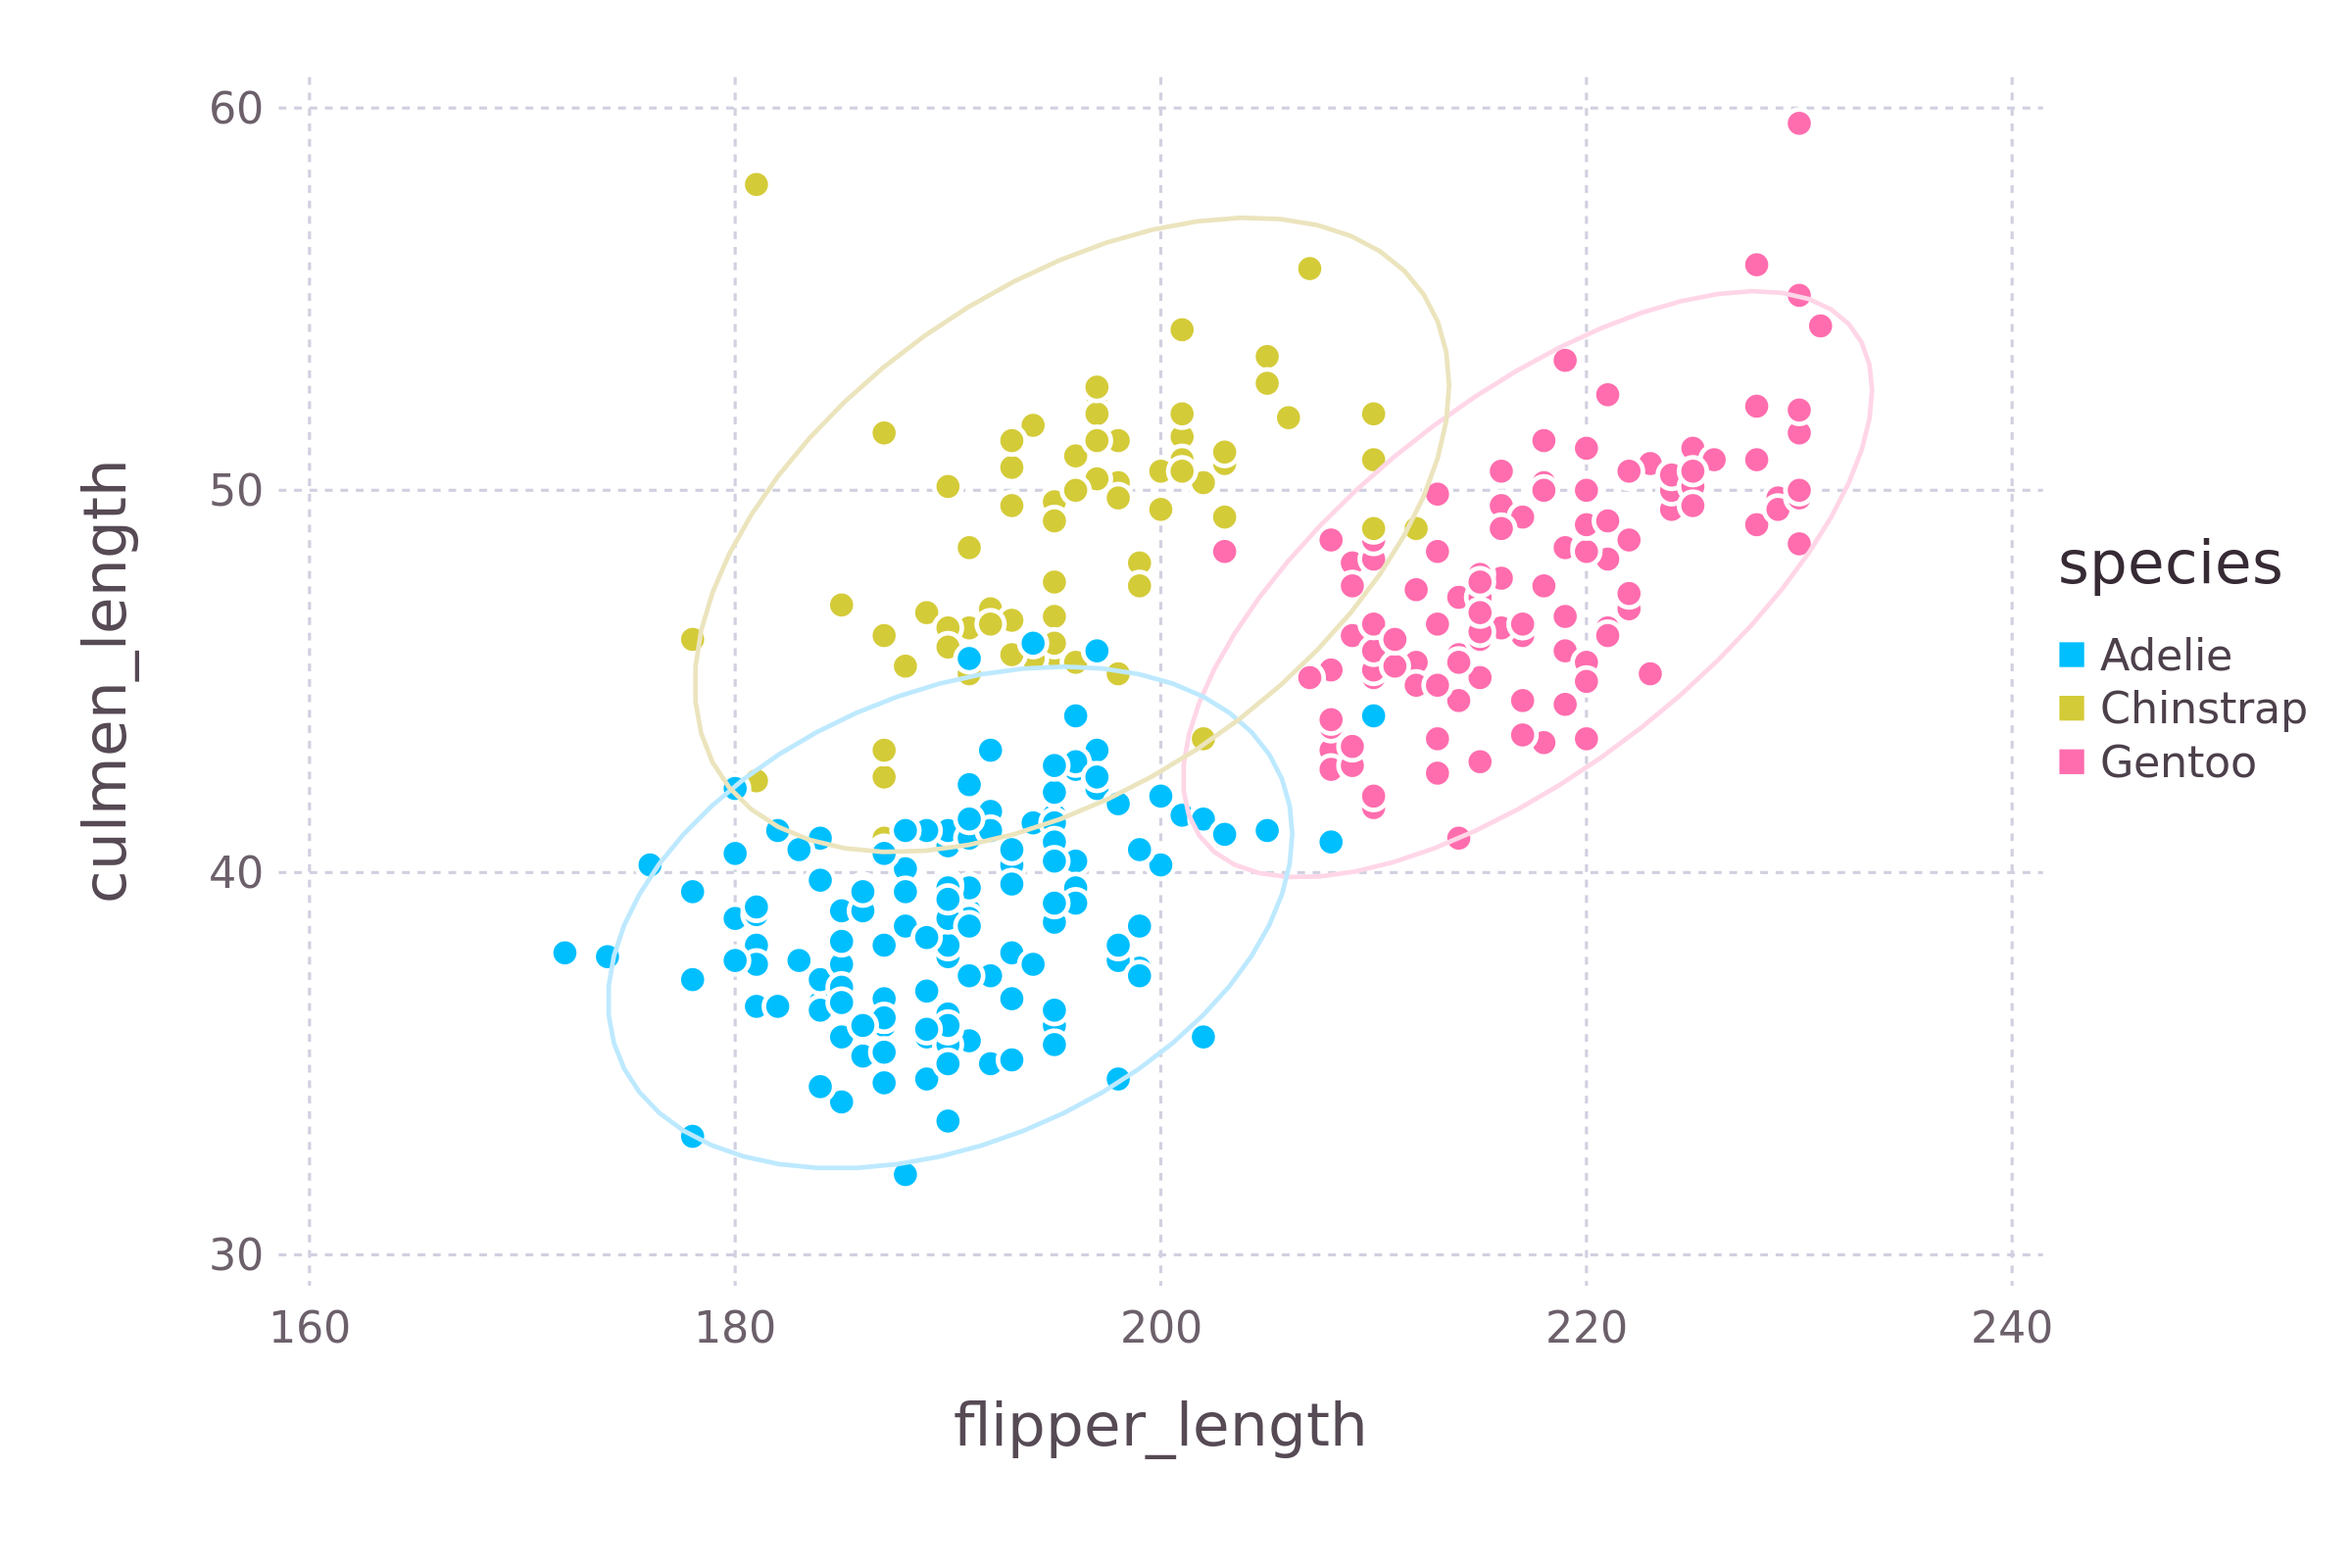
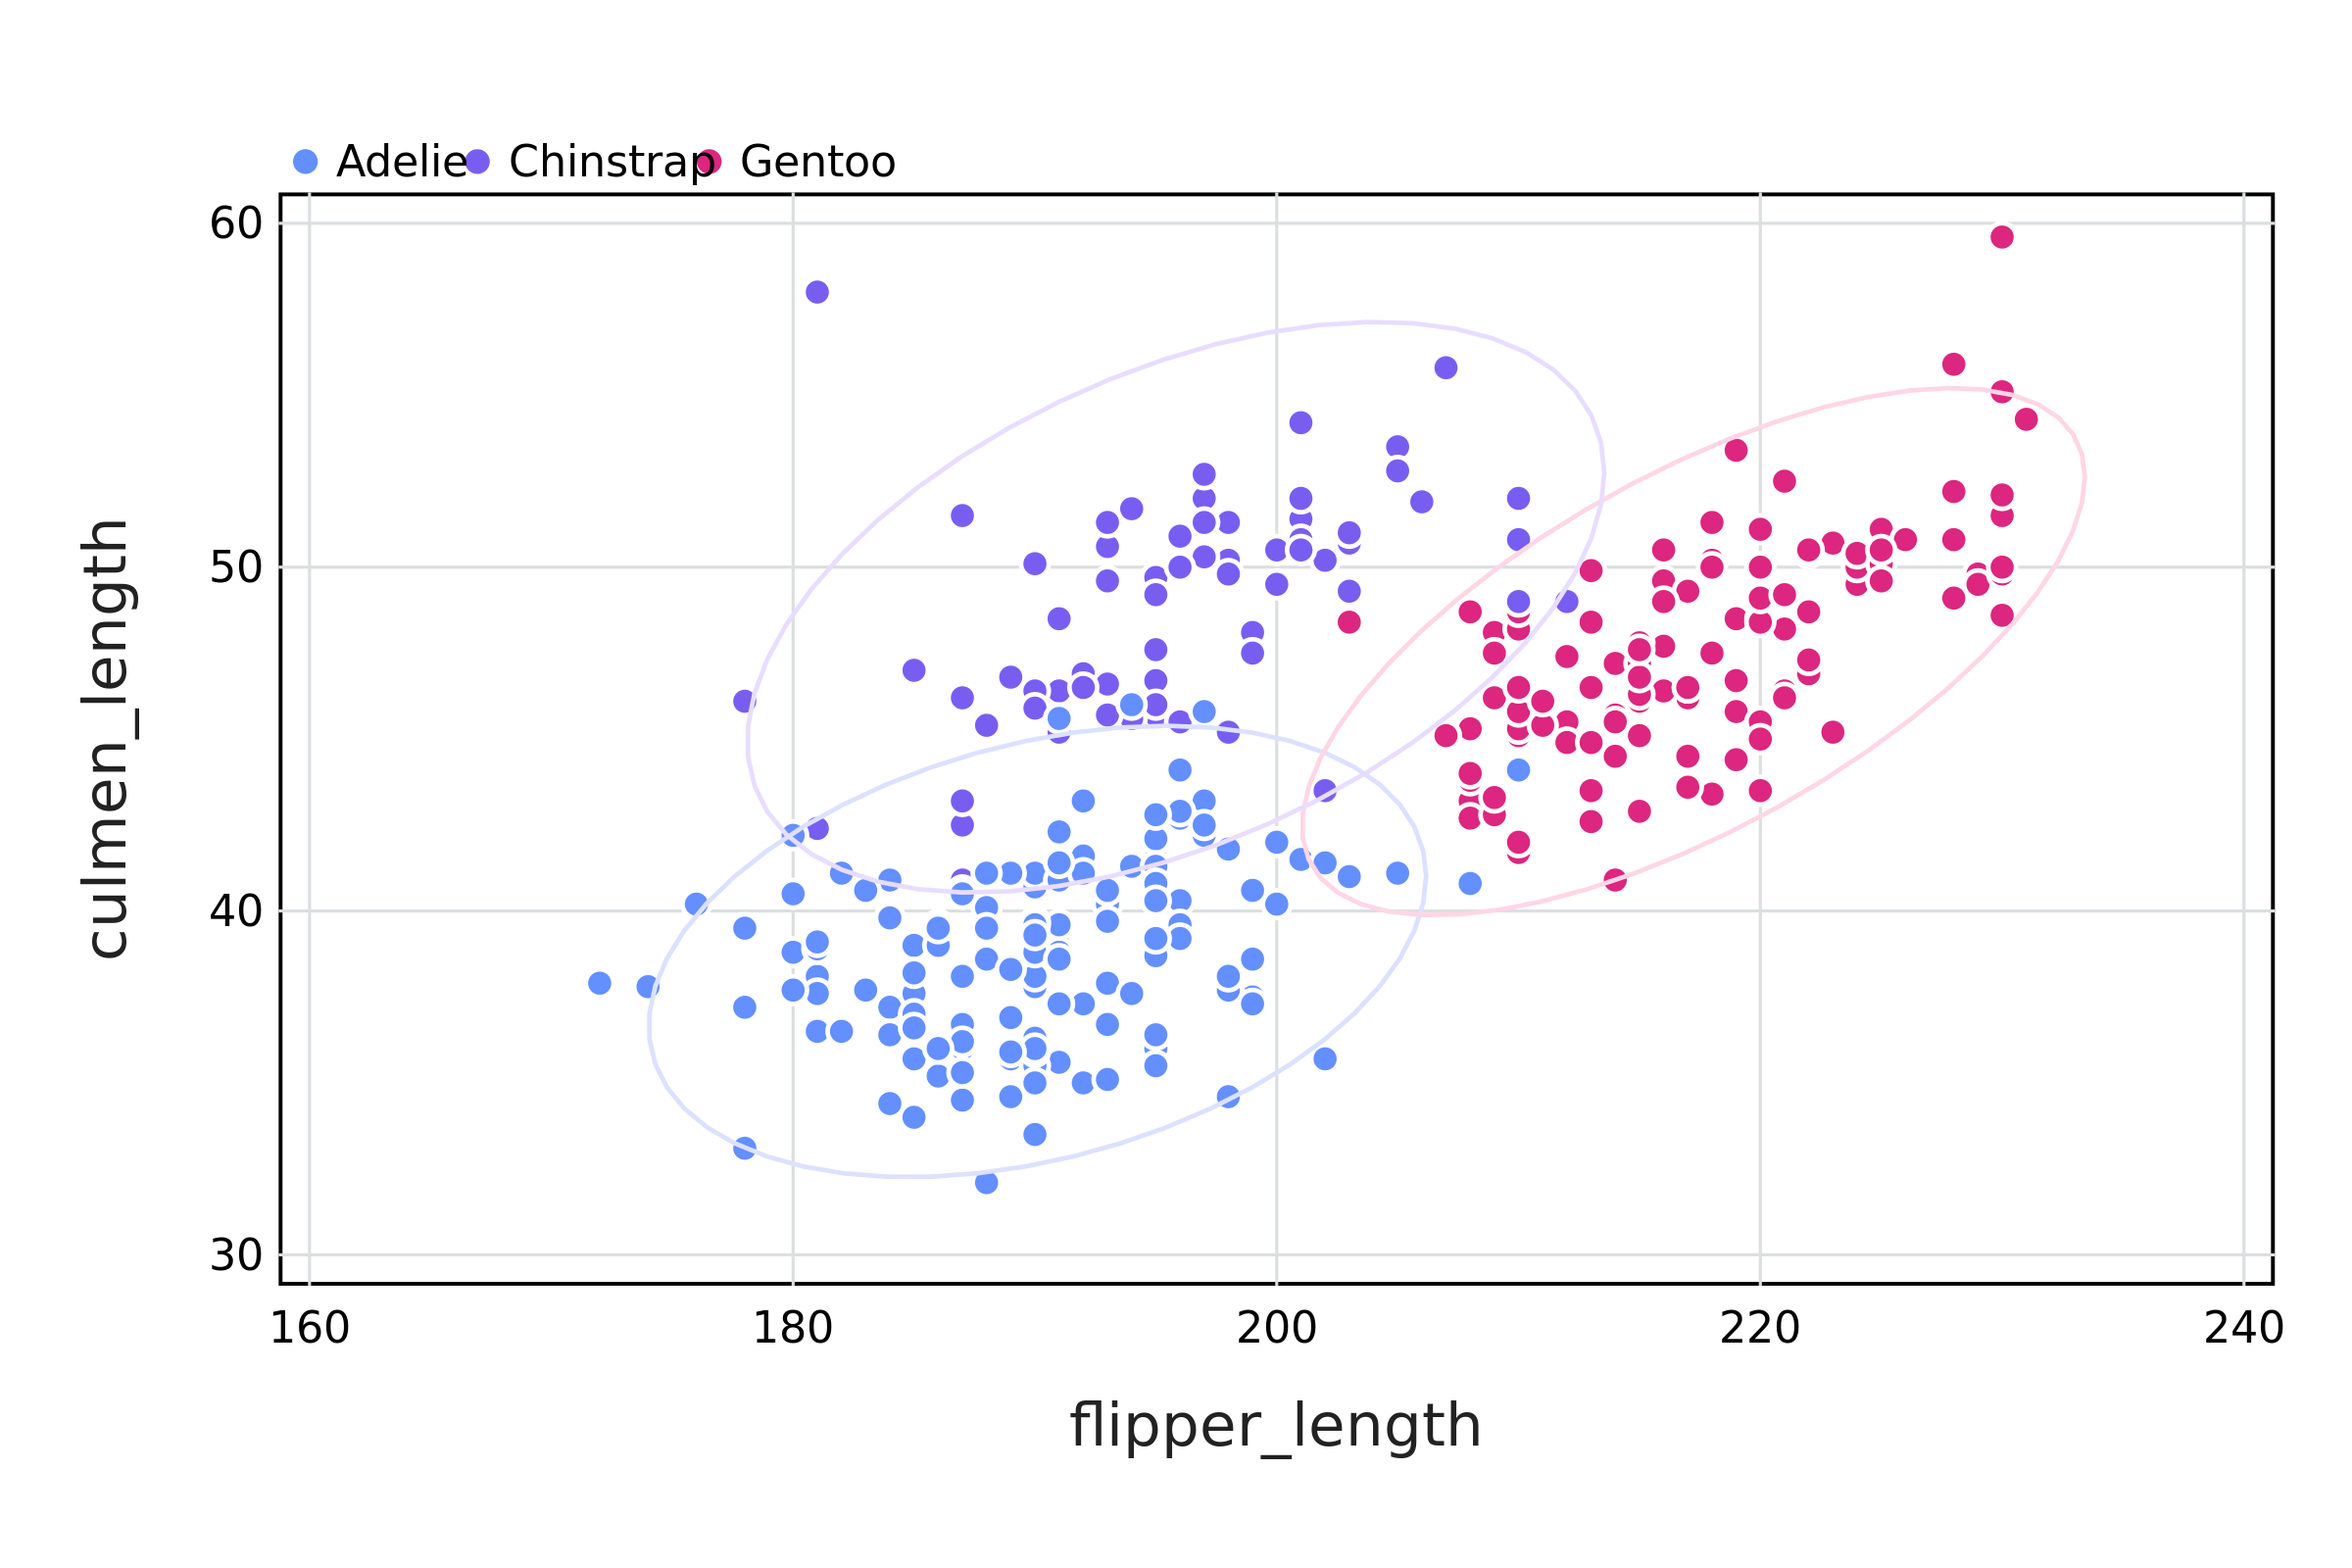
update figures

diff --git a/docs/00_data.md b/docs/00_data.md
@@ -61,6 +61,7 @@ import Latexify
 
 
 
+
 ---
 
 # Preparing the environment
@@ -425,7 +426,7 @@ So far, we have
 
 ---
 
-class: split-30
+class: split-50
 
 # Looking at relationships
 
@@ -438,7 +439,8 @@ plot(
     color=:species,
     Geom.ellipse,
     Geom.point
-);
+) |>
+PNG("figures/data_ellipses.png", dpi=600)
 ```
 
 
@@ -446,12 +448,12 @@ plot(
 ]
 
 .column[
-![Culmen plot](/figures/00_data_culmen_1.png)
+![Culmen plot](figures/data_ellipses.png)
 ]
 
 ---
 
-class: split-30
+class: split-50
 
 # Looking at distributions
 
@@ -469,7 +471,8 @@ plot(
     x=:bodymass,
     color=:species,
     Geom.density
-);
+) |>
+PNG("figures/data_distributions.png", dpi=600)
 ```
 
 
@@ -477,7 +480,7 @@ plot(
 ]
 
 .column[
-![Bodymass plot](/figures/00_data_bodymass_1.png)
+![Bodymass plot](figures/data_distributions.png)
 ]
 
 ---
